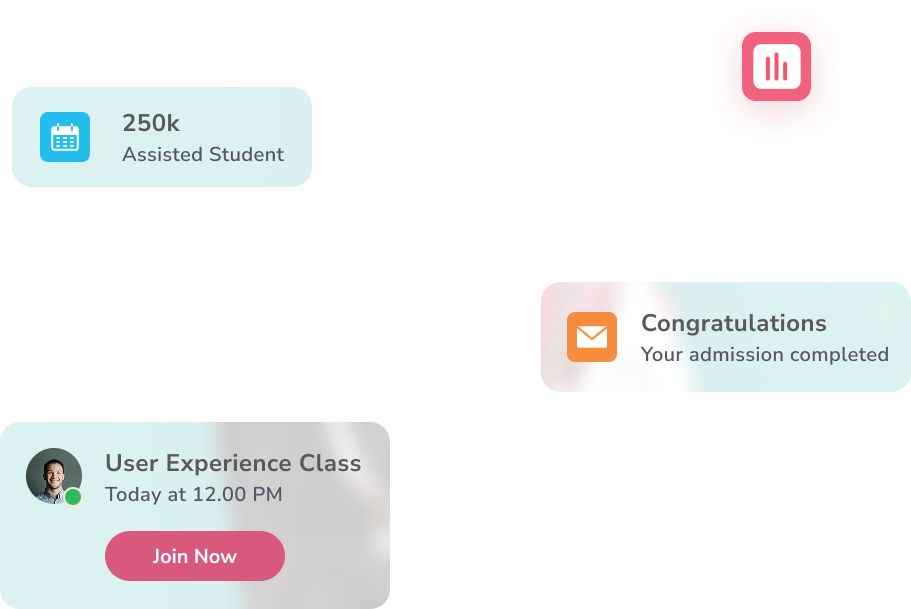
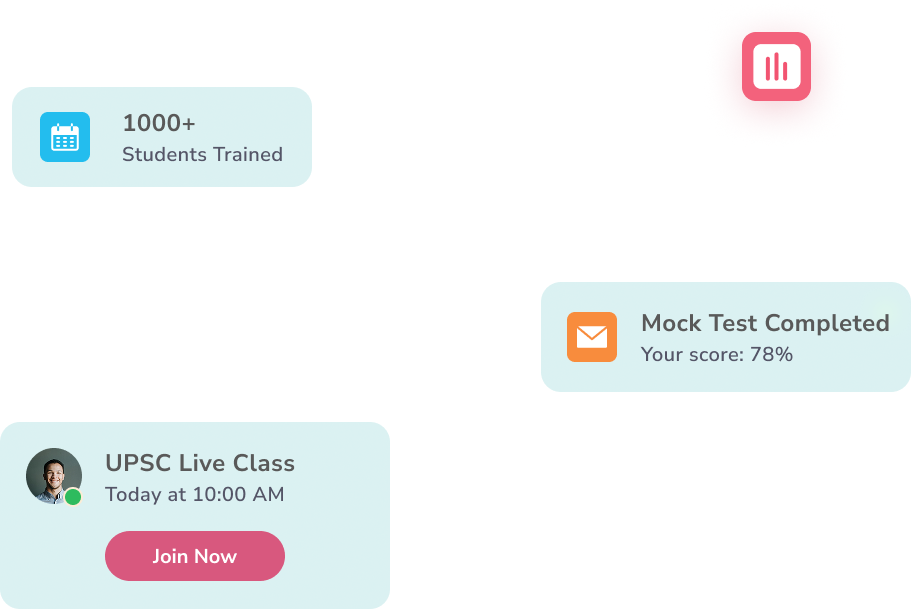
improve overall UI and fonts

Changed region(s): [[0.1229, 0.6864, 0.4303, 1.0], [0.584, 0.4368, 0.9835, 0.6552], [0.1229, 0.1872, 0.3074, 0.2808]]

diff --git a/client/src/components/Intro.jsx b/client/src/components/Intro.jsx
@@ -13,10 +13,9 @@ const Intro = () => {
 
         {/* Description */}
         <p className="text-gray-500 mt-4 max-w-2xl mx-auto leading-relaxed">
-          TQ CIVILS is a platform that allows educators to create online classes
-          whereby they can store the course materials online; manage
-          assignments, quizzes and exams; monitor due dates; grade results and
-          provide students with feedback all in one place.
+          TQ Civils is an initiative by experienced faculty to help students
+          crack UPSC & UPPCS with the right strategy, guidance, and consistent
+          practice.
         </p>
 
         {/* Cards */}
@@ -30,10 +29,11 @@ const Intro = () => {
             />
 
             {/* Overlay */}
-            <div className="absolute inset-0 bg-black/10 flex flex-col items-center justify-center text-white">
-              <h3 className="text-lg font-semibold">UPSC</h3>
+            <div className="absolute inset-0 bg-black/20 flex flex-col items-center justify-center text-white">
+              <h3 className="text-lg font-semibold">UPSC CSE Preparation</h3>
+              <p>Complete Prelims + Mains + Interview guidance</p>
               <button className="mt-4 border border-white px-5 py-2 rounded-full text-sm hover:bg-white hover:text-black transition font-semibold">
-                Explore Courses
+                View Course
               </button>
             </div>
           </div>
@@ -47,10 +47,11 @@ const Intro = () => {
             />
 
             {/* Overlay */}
-            <div className="absolute inset-0 bg-black/10 flex flex-col items-center justify-center text-white">
-              <h3 className="text-lg font-semibold">UPPCS</h3>
+            <div className="absolute inset-0 bg-black/20 flex flex-col items-center justify-center text-white">
+              <h3 className="text-lg font-semibold">UPPCS Preparation</h3>
+              <p>State PCS focused batches with current affairs</p>
               <button className="mt-4 bg-[#00CBB8] px-5 py-2 rounded-full text-sm hover:opacity-90 transition font-semibold">
-                Explore Courses
+                View Course
               </button>
             </div>
           </div>
@@ -60,14 +61,16 @@ const Intro = () => {
         <div className="flex-1 flex flex-col justify-center items-start">
           <div className="w-4/5 gap-5 flex flex-col">
             <h3 className="text-2xl font-semibold w-full">
-              Everything you can do in a physical classroom, <span className="text-[#00CBB8]">you can do with TQ CIVILS</span>
+              Attend live classes, access recorded lectures, practice tests, and
+              track your progress —{" "}
+              <span className="text-[#00CBB8]">all in one platform.</span>
             </h3>
             <p className="text-gray-600 w-full">
-              TQ CIVILS’s school management software helps traditional and online schools manage scheduling, attendance, payments and virtual classrooms all in one secure cloud-based system.
+              TQ CIVILS’s school management software helps traditional and
+              online schools manage scheduling, attendance, payments and virtual
+              classrooms all in one secure cloud-based system.
             </p>
-            <button className="underline text-sm w-fit">
-              Learn more
-            </button>
+            <button className="underline text-sm w-fit">Learn more</button>
           </div>
         </div>
         <div className="flex-1">

diff --git a/client/src/components/Hero.jsx b/client/src/components/Hero.jsx
@@ -2,7 +2,6 @@ import React from "react";
 import { heroImg, girlImg, heroContent } from "../assets/assets";
 import { FaPlay } from "react-icons/fa";
 
-
 const Hero = () => {
   return (
     <div
@@ -10,29 +9,30 @@ const Hero = () => {
       style={{ backgroundImage: `url(${heroImg})` }}
     >
       <div className="flex-1 flex flex-col justify-center gap-10">
-        <h1 className="text-5xl font-semibold">
-          <span className="text-[#F48C06]">Studying</span> Online is now <br />{" "}
-          much easier
+        <h1 className="text-4xl font-semibold">
+          <span className="text-[#F48C06]">UPSC & UPPCS</span> Preparation{" "}
+          <br /> Made Simple
         </h1>
         <p>
-        <span className="">TQ CIVILS</span> is an interesting platform that will teach <br /> you in more an
-          interactive way
+          Expert guidance, structured courses, and daily practice for UPSC &
+          UPPCS aspirants — all in one place.
         </p>
         <div className="flex items-center gap-10">
           <button className="bg-white/20 backdrop-blur-md text-white w-40 py-3 rounded-full border border-white/30 hover:bg-white/30 transition">
-            Join for free
+            Join free demo
           </button>
           <button className="flex items-center gap-5">
-            <span className="bg-white p-4 rounded-full text-[#23BDEE]"><FaPlay/></span>
+            <span className="bg-white p-4 rounded-full text-[#23BDEE]">
+              <FaPlay />
+            </span>
             <p>Watch how it works</p>
-            </button>
+          </button>
         </div>
       </div>
       <div className="flex-1 flex justify-center items-center pb-5">
         <img className="absolute h-4/5" src={girlImg} alt="" />
         <img className="absolute w-1/2" src={heroContent} alt="" />
       </div>
-      
     </div>
   );
 };

diff --git a/client/src/components/Navbar_v2.jsx b/client/src/components/Navbar_v2.jsx
@@ -1,0 +1,51 @@
+import React from "react";
+import { Link } from "react-router-dom";
+
+const Navbar_v2 = () => {
+  return (
+    <nav
+      className={`flex justify-between items-center px-20 py-6 bg-white z-10 text-black absolute top-0 w-full font-semibold`}
+    >
+      {/* Logo */}
+      <Link to="/">
+        <h2 className="text-2xl font-semibold">TQ CIVILS</h2>
+      </Link>
+
+      <div className="flex gap-20 items-center">
+        {/* Nav Links */}
+        <ul className="flex gap-20 max-lg:hidden">
+          <li>
+            <Link to="/">Home</Link>
+          </li>
+          <li>
+            <Link to="/courses">Courses</Link>
+          </li>
+          <li>
+            <Link to="/blog">Blog</Link>
+          </li>
+          <li>
+            <Link to="/about">About Us</Link>
+          </li>
+        </ul>
+
+        {/* Buttons  */}
+        <div className="flex gap-5 items-center">
+          <Link to="/login">
+            <button className="py-2 w-28 bg-black text-white rounded-full">
+              Login
+            </button>
+          </Link>
+          <Link to="/signup">
+            <button
+              className={`backdrop-blur-md bg-black/10 text-black w-28 py-2 rounded-full transition hover:bg-black/20`}
+            >
+              Sign Up
+            </button>
+          </Link>
+        </div>
+      </div>
+    </nav>
+  );
+};
+
+export default Navbar_v2;

diff --git a/client/src/components/Features.jsx b/client/src/components/Features.jsx
@@ -9,8 +9,7 @@ const Features = () => {
           Our <span className="text-[#00CBB8]">Features</span>
         </h2>
         <p className="text-center">
-          This very extraordinary feature, can make learning activities more
-          efficient{" "}
+          Designed to help you crack UPSC & UPPCS efficiently
         </p>
       </div>
       <div>
@@ -41,8 +40,7 @@ const Features = () => {
                 <span className="text-[#00CBB8]">Discussions</span>
               </h3>
               <p className="text-gray-600 w-full">
-                Easily launch live assignments, quizzes, and tests. Student
-                results are automatically entered in the online gradebook.
+                Practice with UPSC & UPPCS level mock tests and track your performance regularly.
               </p>
             </div>
           </div>

diff --git a/client/src/components/Ststs.jsx b/client/src/components/Ststs.jsx
@@ -1,10 +1,10 @@
 import React from "react";
 
 const stats = [
-  { value: "15K+", label: "Students" },
-  { value: "35", label: "Main questions" },
-  { value: "26", label: "Chief experts" },
-  { value: "16", label: "Years of experience" },
+  { value: "1000+", label: "Students Trained" },
+  { value: "5000+", label: "Questions Solved" },
+  { value: "10+", label: "Years of Experience" },
+  { value: "90%", label: "Student Satisfaction" },
 ];
 
 const OurSuccess = () => {
@@ -14,7 +14,7 @@ const OurSuccess = () => {
         
         {/* Heading */}
         <h2 className="text-2xl font-semibold mb-3">
-          Our Success
+          Our Results & Impact
         </h2>
 
         {/* Description */}

diff --git a/client/index.html b/client/index.html
@@ -5,6 +5,9 @@
     <link rel="icon" type="image/svg+xml" href="/favicon.svg" />
     <meta name="viewport" content="width=device-width, initial-scale=1.0" />
     <title>client</title>
+    <link rel="preconnect" href="https://fonts.googleapis.com">
+    <link rel="preconnect" href="https://fonts.gstatic.com" crossorigin>
+    <link href="https://fonts.googleapis.com/css2?family=Inter:ital,opsz,wght@0,14..32,100..900;1,14..32,100..900&family=Outfit:wght@100..900&family=Poppins:ital,wght@0,100;0,200;0,300;0,400;0,500;0,600;0,700;0,800;0,900;1,100;1,200;1,300;1,400;1,500;1,600;1,700;1,800;1,900&display=swap" rel="stylesheet">
   </head>
   <body>
     <div id="root"></div>

diff --git a/client/src/components/Footer.jsx b/client/src/components/Footer.jsx
@@ -9,12 +9,12 @@ const Footer = () => {
         <div className="flex items-center">
           <h3 className="text-2xl font-semibold px-5 py-1">TQ CIVILS</h3>
           <p className="text-sm text-gray-300 border-l border-white px-5 py-1">
-            Virtual Class <br /> for Zoom
+           UPSC & UPPCS <br /> Online Coaching
           </p>
         </div>
 
         {/* Newsletter */}
-        <p className="text-gray-300">Subscribe to get our Newsletter</p>
+        <p className="text-gray-300">Get Daily Current Affairs Updates</p>
 
         {/* Input + Button */}
         <div className="flex items-center gap-3">

diff --git a/client/src/pages/Signup.jsx b/client/src/pages/Signup.jsx
@@ -1,8 +1,14 @@
 import React from 'react'
+import Navbar_v2 from '../components/Navbar_v2'
 
 const Signup = () => {
   return (
-    <div>Signup</div>
+    <>
+    <Navbar_v2 />
+    <div className='h-screen flex justify-center items-center'>
+        <h1 className='text-2xl font-semibold'>Signup page is under construction</h1>
+    </div>
+    </>
   )
 }
 

diff --git a/client/src/pages/About.jsx b/client/src/pages/About.jsx
@@ -1,8 +1,14 @@
 import React from 'react'
+import Navbar_v2 from '../components/Navbar_v2'
 
 const About = () => {
   return (
-    <div>About</div>
+    <>
+    <Navbar_v2 />
+    <div className='h-screen flex justify-center items-center'>
+        <h1 className='text-2xl font-semibold'>About page is under construction</h1>
+    </div>
+    </>
   )
 }
 

diff --git a/client/src/pages/Login.jsx b/client/src/pages/Login.jsx
@@ -1,8 +1,14 @@
 import React from 'react'
+import Navbar_v2 from '../components/Navbar_v2'
 
 const Login = () => {
   return (
-    <div>Login</div>
+    <>
+    <Navbar_v2 />
+    <div className='h-screen flex justify-center items-center'>
+        <h1 className='text-2xl font-semibold'>Login page is under construction</h1>
+    </div>
+    </>
   )
 }
 

diff --git a/client/src/pages/Blog.jsx b/client/src/pages/Blog.jsx
@@ -1,8 +1,14 @@
 import React from 'react'
+import Navbar_v2 from '../components/Navbar_v2'
 
 const Blog = () => {
   return (
-    <div>Blog</div>
+    <>
+    <Navbar_v2 />
+    <div className='h-screen flex justify-center items-center'>
+        <h1 className='text-2xl font-semibold'>Blog page is under construction</h1>
+    </div>
+    </>
   )
 }
 

diff --git a/client/src/pages/Courses.jsx b/client/src/pages/Courses.jsx
@@ -1,8 +1,12 @@
 import React from 'react'
+import Navbar_v2 from '../components/Navbar_v2'
 
 const Courses = () => {
   return (
-    <div>Courses</div>
+    <div className='h-screen flex justify-center items-center'>
+        <Navbar_v2 />
+        <h1 className='text-2xl font-semibold'>Courses page is under construction</h1>
+    </div>
   )
 }
 
